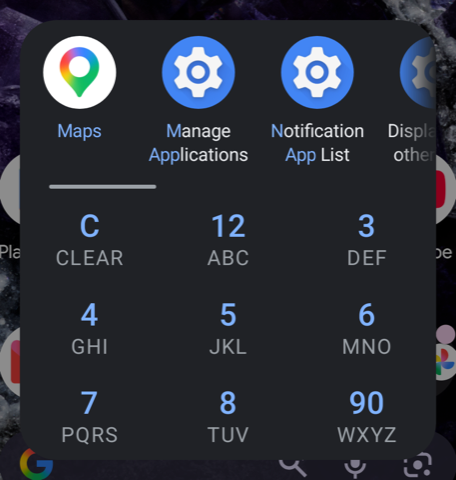
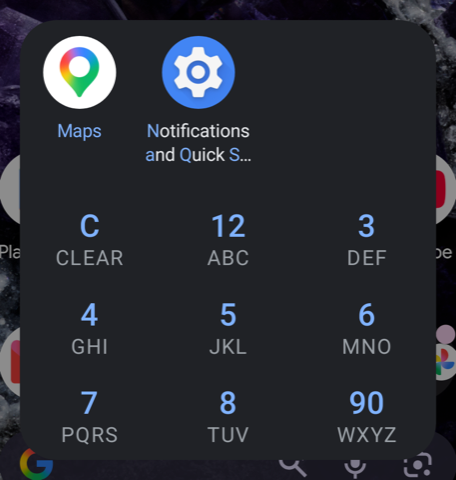
Fewer loose matches
- Word-start chains begin at the first word and skip no word
- Substring matches stay inside one word
- A settings page's class-name words only match at a word start

diff --git a/app/src/main/java/com/dbuezas/t9launcher/App.java b/app/src/main/java/com/dbuezas/t9launcher/App.java
@@ -170,7 +170,9 @@ final class App {
     /**
      * Match quality, lower is better; -1 = no match.
      * 0 name starts with query, 1 a word starts with query (may run into the next words),
-     * 2 query is a chain of word prefixes ("gm" -> Google Maps), 3 substring (3+ digits).
+     * 2 query is a chain of prefixes of the first words ("gm" -> Google Maps), 3 substring of one word (3+ digits).
+     * The alias (settings class-name words) only takes part in 1: it is a fallback for renamed
+     * pages ("blue" -> Bluetooth), not a source of loose matches.
      */
     int match(char[] q, int n) {
         if (n == 0) return 0;
@@ -178,37 +180,39 @@ final class App {
         if (at(0, q, n)) return 0;
         for (int i = 1; i < ws.length; i++) if (at(ws[i], q, n)) return 1;
         if (chain0(q, n, null)) return 2;
-        if (n >= 3) for (int s = 1; s + n <= codes.length; s++) if (at(s, q, n)) return 3;
+        if (n >= 3) for (int s = 1; s + n <= splitCode; s++) if (inWord(s, n) && at(s, q, n)) return 3;
         return -1;
+    }
+
+    /** Is codes[s, s+n) inside one word? Substring matches never run across words ("o app"). */
+    private boolean inWord(int s, int n) {
+        for (int w : ws) if (w > s && w < s + n) return false;
+        return true;
     }
 
     private int wordEnd(int w) {
         return w + 1 < ws.length ? ws[w + 1] : codes.length;
     }
 
-    /** Chain over the label words, then over the alias words; never across both. */
+    /** Chain over the label words, from the first word on. */
     private boolean chain0(char[] q, int n, boolean[] mark) {
         java.util.Arrays.fill(FAIL, 0, n + 1, 0);
-        if (chain(q, n, 0, 0, splitWord, mark)) return true;
-        if (splitWord >= ws.length) return false;
-        java.util.Arrays.fill(FAIL, 0, n + 1, 0);
-        return chain(q, n, 0, splitWord, ws.length, mark);
+        return chain(q, n, 0, 0, splitWord, mark);
     }
 
     /**
-     * Can q[qi..] be covered by prefixes of words w, w+1.. < lim (words may be skipped)?
+     * Can q[qi..] be covered by a prefix of word w, then of word w+1, ... (< lim), no word skipped?
      * Memoized, so it stays O(query * words * wordLength) even for pathological names.
      */
     private boolean chain(char[] q, int n, int qi, int w, int lim, boolean[] mark) {
         if (qi == n) return true;
+        if (w >= lim) return false;
         if (w < 64 && (FAIL[qi] & (1L << w)) != 0) return false;
-        for (int wi = w; wi < lim; wi++) {
-            int s = ws[wi], e = wordEnd(wi);
-            for (int l = 0; s + l < e && qi + l < n && codes[s + l] == q[qi + l]; l++) {
-                if (chain(q, n, qi + l + 1, wi + 1, lim, mark)) {
-                    if (mark != null) for (int k = 0; k <= l; k++) mark[pos[s + k]] = true;
-                    return true;
-                }
+        int s = ws[w], e = wordEnd(w);
+        for (int l = 0; s + l < e && qi + l < n && codes[s + l] == q[qi + l]; l++) {
+            if (chain(q, n, qi + l + 1, w + 1, lim, mark)) {
+                if (mark != null) for (int k = 0; k <= l; k++) mark[pos[s + k]] = true;
+                return true;
             }
         }
         if (w < 64) FAIL[qi] |= 1L << w;
@@ -229,7 +233,7 @@ final class App {
             chain0(q, n, hl);
             return;
         } else {
-            for (int s = 1; s + n <= codes.length; s++) if (at(s, q, n)) { start = s; break; }
+            for (int s = 1; s + n <= splitCode; s++) if (inWord(s, n) && at(s, q, n)) { start = s; break; }
         }
         if (start >= 0) for (int k = 0; k < n; k++) hl[pos[start + k]] = true;
     }

diff --git a/README.md b/README.md
@@ -45,16 +45,17 @@ Measured on my Pixel 8 (Android 17): the median of 8 cold and 8 warm opens, with
 - An app or settings page matches when the keys match:
   - the start of its name (`432` → **Hea**rts),
   - the start of any word (`6277` → Google **Maps**),
-  - the first letters of words (`46` → **G**oogle **M**aps), or
-  - any part of its name (3 or more keys).
+  - the starts of its words in order, from the first word, none skipped (`46` → **G**oogle **M**aps,
+    `476` → **G**oogle **P**lay **M**usic), or
+  - any part of one word (3 or more keys: `2583` → Ex**clud**e).
 - The matched letters are shown in blue.
 - What I opened most recently from here comes first; then the best matches, apps before settings pages.
 - Tap a result to open it. Long-press an app to open its App info.
 - Apps from the work profile are included.
 - Settings pages are searchable too, read from the phone's own Settings app: every page it lets other apps open, with
   its translated title (about 160 on my Pixel 8). Pages that need an app to be chosen first are left out. The words of
-  the page's internal class name are searchable as well: Pixel titles the Bluetooth page "Devices", but `blue` finds it
-  and shows it as **Blue**tooth. Settings pages appear in the empty panel only once you used them.
+  the page's internal class name count too, but only when one of them starts with what you typed: Pixel titles the
+  Bluetooth page "Devices", but `blue` finds it and shows it as **Blue**tooth. Settings pages appear in the empty panel only once you used them.
 - Long names wrap to a second line between words when the rest then fits; otherwise at any character, so as much of
   the name as possible is shown.
 
